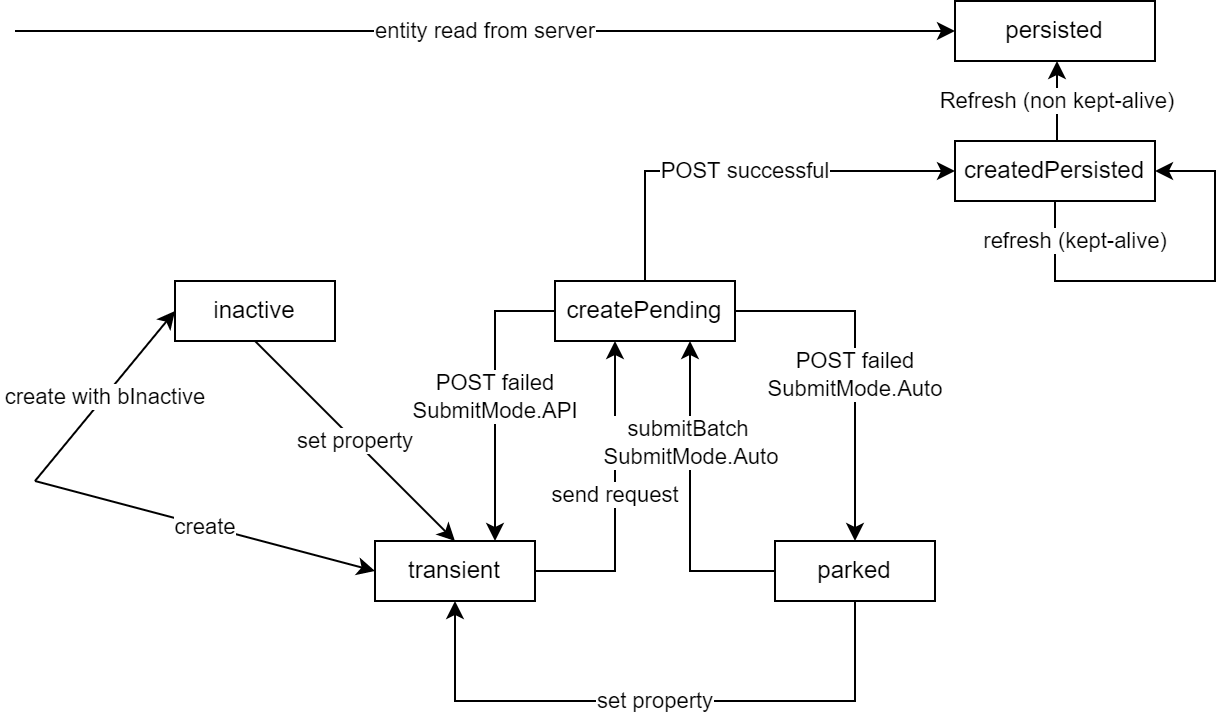
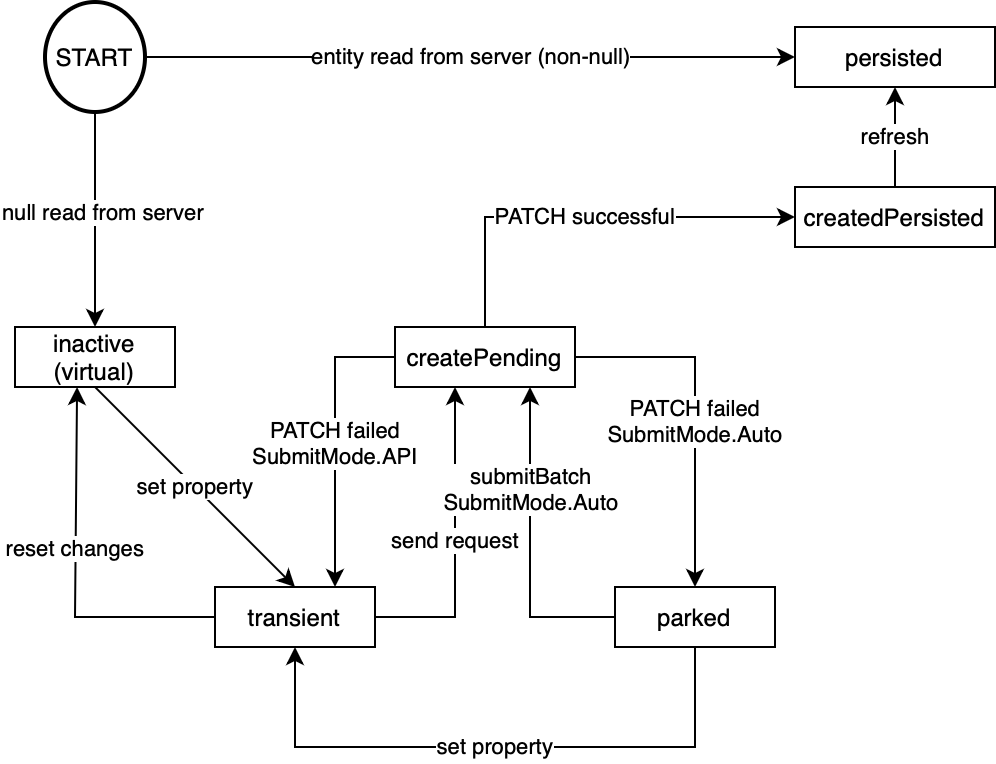
OpenUI5 Documentation Update 08.02.2025

diff --git a/docs/Creating_a_Single_Entity_ba0e73c.md b/docs/Creating_a_Single_Entity_ba0e73c.md
@@ -1,0 +1,89 @@
+<!-- loioba0e73ce02824ceb96b6fd8ecc246f27 -->
+
+| loio |
+| -----|
+| ba0e73ce02824ceb96b6fd8ecc246f27 |
+
+<div id="loio">
+
+view on: [demo kit nightly build](https://sdk.openui5.org/nightly/#/topic/ba0e73ce02824ceb96b6fd8ecc246f27) | [demo kit latest release](https://sdk.openui5.org/topic/ba0e73ce02824ceb96b6fd8ecc246f27)</div>
+
+## Creating a Single Entity
+
+When a single-valued navigation property has a `null` value, you can create a new entity via a so-called "upsert" \(an **up**date that does an in**sert** \). Usually, no API is needed for this as two-way property bindings are sufficient.
+
+> ### Note:  
+> For creating a new entity inside a collection, that is, an entity set or a collection-valued navigation property, see [Creating an Entity in a Collection](Creating_an_Entity_in_a_Collection_c9723f8.md).
+
+***
+
+<a name="loioba0e73ce02824ceb96b6fd8ecc246f27__section_DCR"/>
+
+### A Simple Example
+
+Let's assume we have product entities with a collection of descriptive texts in different languages. Typically, only the text for the current UI language can be maintained by an end user. Suppose `Description` is thus a single-valued navigation property from the product entity to a description entity. Behind the scenes, a collection of descriptions is associated with a single product, but that is of no concern to us here. Also, the description entity may have more properties like the language it represents etc., but we are just interested in the actual `Text` property.
+
+The following is an over-simplified XML view where the outer box represents an object page bound to a single product instance. The interesting part of the UI is an input field with two-way data binding for the description's text. This of course works naturally in case a description is already present: it can then be changed. The same is also possible when no description yet exists, that is, if `Description` has a `null` value. When the end user enters some text into that input field, the V4 OData model creates a PATCH request for`/Products('42')/Description` with header `If-None-Match:*` to tell the back-end service to create a new instance with the given text. That PATCH is accompanied with an appropriate GET to fetch the needed properties from the service after the upsert. This is important in case more properties of the upserted entity are shown on the UI, but also if the sent property itself has been changed, for example, due to auto-correction or -formatting. No side effects need to be maintained for that.
+
+> ### Example:  
+> **XML View for Upsert**
+> 
+> ```
+> 
+> <FlexBox binding="{/Products('42')}">
+>     <Input value="{Description/Text}"/>
+> </FlexBox>
+> ```
+
+***
+
+<a name="loioba0e73ce02824ceb96b6fd8ecc246f27__section_ICR"/>
+
+### Advanced Usage
+
+In addition to two-way data binding, an upsert can also be caused via the [`v4.Context#setProperty`](https://sdk.openui5.org/api/sap.ui.model.odata.v4.Context/methods/setProperty) API. To undo an upsert that has not yet been sent to the backend \(mostly due to [submit mode=API](https://sdk.openui5.org/api/sap.ui.model.odata.v4.SubmitMode)\), use [`v4.Context#resetChanges`](https://sdk.openui5.org/api/sap.ui.model.odata.v4.Context/methods/resetChanges), [`v4.ODataModel#resetChanges`](https://sdk.openui5.org/api/sap.ui.model.odata.v4.ODataModel/methods/resetChanges), or the corresponding method at a [context](https://sdk.openui5.org/api/sap.ui.model.odata.v4.Context/methods/resetChanges), [list](https://sdk.openui5.org/api/sap.ui.model.odata.v4.ODataListBinding/methods/resetChanges), or [property](https://sdk.openui5.org/api/sap.ui.model.odata.v4.ODataPropertyBinding/methods/resetChanges) binding. You cannot use [`v4.Context#delete`](https://sdk.openui5.org/api/sap.ui.model.odata.v4.Context/methods/delete) for this purpose because the context itself should not be deleted, just the \(navigation\) property changes related to it. Setting the `Text` property to `null` again does not undo the upsert, and neither does setting `Description` to `null`.
+
+***
+
+<a name="loioba0e73ce02824ceb96b6fd8ecc246f27__section_CST"/>
+
+### State Diagram
+
+Suppose there is an object binding for the input field as follows. In a similar fashion, there might be an intermediate control bundling a number of input fields related to the same upsert-able entity and again with an object binding to the corresponding single-valued navigation property. In such cases, we can have a closer look at the [`v4.Context`](https://sdk.openui5.org/api/sap.ui.model.odata.v4.Context) related to that [`v4.ODataContextBinding`](https://sdk.openui5.org/api/sap.ui.model.odata.v4.ODataContextBinding) using `this.oView.byId("input").getBindingContext()`. Its state diagram is intentionally close to the one from [Creating an Entity in a Collection](Creating_an_Entity_in_a_Collection_c9723f8.md).
+
+> ### Example:  
+> **XML View for Upsert With Object Binding**
+> 
+> ```
+> 
+> <FlexBox binding="{/Products('42')}">
+>     <Input  binding="{Description}" id="input" value="{Text}"/>
+> </FlexBox>
+> ```
+
+As long as the single-valued navigation property \(`Description` in our example\) has a `null` value, the context is in a kind of inactive state. The input field is ready for input, but no upsert has been created yet. Note that there is no API or client-side annotation to observe that state beyond [`v4.Context#getObject`](https://sdk.openui5.org/api/sap.ui.model.odata.v4.Context/methods/getObject) returning `null`.
+
+Once something has been entered for `Text`, the upsert's PATCH request is created and queued. The context now becomes transient, and this can be observed as usual with [`v4.Context#isTransient`](https://sdk.openui5.org/api/sap.ui.model.odata.v4.Context/methods/isTransient). Depending on the [submit mode](https://sdk.openui5.org/api/sap.ui.model.odata.v4.SubmitMode), the request is either sent automatically or [`v4.ODataModel#submitBatch`](https://sdk.openui5.org/api/sap.ui.model.odata.v4.ODataModel/methods/submitBatch) is needed. A [`patchSent`](https://sdk.openui5.org/api/sap.ui.model.odata.v4.ODataContextBinding/events/patchSent) event is fired as usual, followed by a [`patchCompleted`](https://sdk.openui5.org/api/sap.ui.model.odata.v4.ODataContextBinding/events/patchCompleted). Depending on your binding structure, those events may be fired at a list binding instead. When the PATCH fails, it will be retried as usual, either via the next user input \(or property change, in general\) or via `v4.ODataModel#submitBatch`. Of course, [`bRetry`](https://sdk.openui5.org/api/sap.ui.model.odata.v4.Context/methods/setProperty) has the usual effect in case the API is used.
+
+If and when the entity has been successfully created in the back-end service, the context looks "`createdPersisted`". Use [`v4.Context#created`](https://sdk.openui5.org/api/sap.ui.model.odata.v4.Context/methods/created) to wait for this to happen. This state is preserved by some operations, but after a refresh the context will look just like any other context for a persisted entity loaded from the back-end service.
+
+  
+  
+**State Diagram for Creating an Entity via Upsert**
+
+![](images/loiof359082361f445868c75940f778a8c2e_LowRes.png "State Diagram for Creating an Entity via Upsert")
+
+***
+
+<a name="loioba0e73ce02824ceb96b6fd8ecc246f27__section_x5l_k53_h2c"/>
+
+### Restrictions
+
+An upsert cannot happen in a collection that does not send own requests. For example, the list binding of an items table for `Products` with binding context `/Category('23')` needs to use [`$$ownRequest`](https://sdk.openui5.org/api/sap.ui.model.odata.v4.ODataModel/methods/bindList) in order to upsert descriptions per product.
+
+Upserts cannot be nested, that is, one cannot create an entity for `Description` and for `Description/Detail` in the same upsert. There is no deep upsert, that is, there cannot be a table of `Description/Detail`s filled within the upsert for `Description`. In both cases, `Description` needs to be created first and saved in the back end before the next step.
+
+The binding-specific parameter [`$$noPatch`](https://sdk.openui5.org/api/sap.ui.model.odata.v4.ODataModel/methods/bindProperty) is unsupported for upserts. The mixing of update group IDs related to the same upsert is not supported; this also holds for null vs. non-null in the case of the [`v4.Context#setProperty`](https://sdk.openui5.org/api/sap.ui.model.odata.v4.Context/methods/setProperty) API. As usual, side effects need to be requested with the same \(update\) group ID as the one that caused the upsert; see `sGroupId` of [`v4.Context#requestSideEffects`](https://sdk.openui5.org/api/sap.ui.model.odata.v4.Context/methods/requestSideEffects).
+
+When the upsert is caused via API at a parent context of the context corresponding to the single-value navigation property, the actual "upsert context" is bypassed and does not become created or transient.
+

diff --git a/docs/Data_Aggregation_and_Recursive_Hierarchy_7d91431.md b/docs/Data_Aggregation_and_Recursive_Hierarchy_7d91431.md
@@ -222,9 +222,9 @@ Note how the sibling\(!\) order is specified via an [`orderby`](https://docs.oas
 }">
 ```
 
-If the list binding uses `$count: true`, for example, to show this count as part of a title, an extra request is sent once \(not each time when scrolling, but of course again after a \(side-effects\) refresh\). It includes any custom query options as well as filter and search criteria: `GET /sap/opu/odata4/IWBEP/TEA/default/IWBEP/TEA_BUSI/0001/EMPLOYEES/$count?sap-client=123&$filter=AGE ge 0 and (Is_Manager)&$search=covfefe`
+If the list binding uses `$count: true`, for example, to show this count as part of a title, an extra request is sent once \(not each time when scrolling, but of course again after a \(side-effects\) refresh\). It includes any custom query options as well as filter and search criteria: `GET /sap/opu/odata4/IWBEP/TEA/default/IWBEP/TEA_BUSI/0001/EMPLOYEES/$count?sap-client=123&$filter=AGE ge 0 and (Is_Manager)&$search=developer`
 
-With filter and search, the main request looks a bit more complicated and includes an [`ancestors`](https://docs.oasis-open.org/odata/odata-data-aggregation-ext/v4.0/cs03/odata-data-aggregation-ext-v4.0-cs03.html#Transformationsancestorsanddescendants) transformation beforehand: <code>GET /sap/opu/odata4/IWBEP/TEA/default/IWBEP/TEA_BUSI/0001/EMPLOYEES?<b>$apply=ancestors($root/EMPLOYEES,OrgChart,ID,filter(AGE ge 0 and (Is_Manager))/search(covfefe),keep start)</b>/orderby(AGE)/com.sap.vocabularies.Hierarchy.v1.TopLevels(HierarchyNodes=$root/EMPLOYEES,HierarchyQualifier='OrgChart',NodeProperty='ID',Levels=2) &amp;$select=AGE,DescendantCount,DistanceFromRoot,DrillState,ID,MANAGER_ID,Name&amp;$count=true&amp;$skip=0&amp;$top=115</code>
+With filter and search, the main request looks a bit more complicated and includes an [`ancestors`](https://docs.oasis-open.org/odata/odata-data-aggregation-ext/v4.0/cs03/odata-data-aggregation-ext-v4.0-cs03.html#Transformationsancestorsanddescendants) transformation beforehand: <code>GET /sap/opu/odata4/IWBEP/TEA/default/IWBEP/TEA_BUSI/0001/EMPLOYEES?<b>$apply=ancestors($root/EMPLOYEES,OrgChart,ID,filter(AGE ge 0 and (Is_Manager))/search(developer),keep start)</b>/orderby(AGE)/com.sap.vocabularies.Hierarchy.v1.TopLevels(HierarchyNodes=$root/EMPLOYEES,HierarchyQualifier='OrgChart',NodeProperty='ID',Levels=2) &amp;$select=AGE,DescendantCount,DistanceFromRoot,DrillState,ID,MANAGER_ID,Name&amp;$count=true&amp;$skip=0&amp;$top=115</code>
 
 When a node is expanded individually, a request for its children is sent using a [`descendants`](https://docs.oasis-open.org/odata/odata-data-aggregation-ext/v4.0/cs03/odata-data-aggregation-ext-v4.0-cs03.html#Transformationsancestorsanddescendants) transformation, for example: <code>GET /sap/opu/odata4/IWBEP/TEA/default/IWBEP/TEA_BUSI/0001/EMPLOYEES?<b>$apply=descendants($root/EMPLOYEES,OrgChart,ID,filter(ID eq '0'),1)</b>/orderby(AGE)&amp;$select=AGE,DrillState,ID,MANAGER_ID,Name&amp;$count=true&amp;$skip=0&amp;$top=6</code>
 

diff --git a/docs/Date_Format_91f2eba.md b/docs/Date_Format_91f2eba.md
@@ -36,6 +36,8 @@ var oTimeFormat = sap.ui.core.format.DateFormat.getTimeInstance();
 
 ***
 
+<a name="loio91f2eba36f4d1014b6dd926db0e91070__section_params"/>
+
 ### Parameters
 
 There are several parameters which affect the final result of formatting and parsing a date. If no parameter is set, the default setting defined in the current locale is used to format and parse the date.
@@ -472,6 +474,144 @@ var oDateTimeWithTimezoneFormat = sap.ui.core.format.DateFormat.getDateTimeWithT
 
 oDateTimeWithTimezoneFormat.format(UI5Date.getInstance(), "America/New_York") // Returns "10.02.2022, 10:01:14 America/New_York"
 ```
+
+***
+
+#### Mapping of Deprecated Time Zones
+
+The IANA standard classifies certain time zone IDs as deprecated and defines substitutes for them. With [CLDR version 46](https://cldr.unicode.org/downloads/cldr-46#supplemental-data-changes), these time zones are removed, and locale-specific time zone name translations are no longer available for them. To remain backward-compatible, OpenUI5 maps deprecated IANA time zone IDs to the related preferred IANA time zone IDs when formatting or parsing time zones. For example, the translated text in the English locale `Americas, Nipigon` is now formatted to `Americas, Toronto`. In case of parsing, the translated texts cannot be parsed anymore as they are no longer available, e.g. for the English locale `Americas, Nipigon` could not be parsed. If a time zone ID is entered for parsing, the mapped equivalent would be parsed, e.g. if `America/Nipigon` is entered for parsing, it would now be parsed as `America/Toronto`.
+
+Below you can find a list of all deprecated time zone IDs and their substitutes.
+
+**Time Zone Mapping**
+
+
+<table>
+<tr>
+<th valign="top">
+
+Deprecated time zone
+
+</th>
+<th valign="top">
+
+Preferred time zone
+
+</th>
+</tr>
+<tr>
+<td valign="top">
+
+`America/Nipigon`
+
+`America/Thunder_Bay`
+
+</td>
+<td valign="top">
+
+`America/Toronto` 
+
+</td>
+</tr>
+<tr>
+<td valign="top">
+
+`America/Pangnirtung` 
+
+</td>
+<td valign="top">
+
+`America/Iqaluit` 
+
+</td>
+</tr>
+<tr>
+<td valign="top">
+
+`America/Rainy_River` 
+
+</td>
+<td valign="top">
+
+`America/Winnipeg` 
+
+</td>
+</tr>
+<tr>
+<td valign="top">
+
+`America/Santa_Isabel` 
+
+</td>
+<td valign="top">
+
+`America/Tijuana` 
+
+</td>
+</tr>
+<tr>
+<td valign="top">
+
+`America/Yellowknife` 
+
+</td>
+<td valign="top">
+
+`America/Edmonton` 
+
+</td>
+</tr>
+<tr>
+<td valign="top">
+
+`Europe/Uzhgorod`
+
+`Europe/Zaporozhye`
+
+</td>
+<td valign="top">
+
+`Europe/Kiev` 
+
+</td>
+</tr>
+<tr>
+<td valign="top">
+
+`Asia/Choibalsan` 
+
+</td>
+<td valign="top">
+
+`Asia/Ulaanbaatar` 
+
+</td>
+</tr>
+<tr>
+<td valign="top">
+
+`Australia/Currie` 
+
+</td>
+<td valign="top">
+
+`Australia/Hobart` 
+
+</td>
+</tr>
+<tr>
+<td valign="top">
+
+`Pacific/Johnston` 
+
+</td>
+<td valign="top">
+
+`Pacific/Honolulu` 
+
+</td>
+</tr>
+</table>
 
 ***
 

diff --git a/docs/OData_V4_Model_5de13cf.md b/docs/OData_V4_Model_5de13cf.md
@@ -78,10 +78,13 @@ Certain methods derived from OpenUI5 model and binding superclasses are not supp
 -   **[Changes Compared to OData V2 Model](Changes_Compared_to_OData_V2_Model_abd4d7c.md "This section outlines the main differences between the OData V2 and OData V4
 		models.")**  
 This section outlines the main differences between the OData V2 and OData V4 models.
--   **[Creating an Entity](Creating_an_Entity_c9723f8.md "The sap.ui.model.odata.v4.ODataListBinding#create method creates a
-		new entity. Users can interact with a newly created entity even before it has been sent to
-		the server.")**  
-The `sap.ui.model.odata.v4.ODataListBinding#create` method creates a new entity. Users can interact with a newly created entity even before it has been sent to the server.
+-   **[Creating an Entity in a Collection](Creating_an_Entity_in_a_Collection_c9723f8.md "The sap.ui.model.odata.v4.ODataListBinding#create method creates a new entity inside a collection. Users can interact
+		with a newly created entity even before it has been sent to the server.")**  
+The `sap.ui.model.odata.v4.ODataListBinding#create` method creates a new entity inside a collection. Users can interact with a newly created entity even before it has been sent to the server.
+-   **[Creating a Single Entity](Creating_a_Single_Entity_ba0e73c.md "When a single-valued navigation property has a null value, you can create a new entity via a so-called &quot;upsert&quot; (an
+			update that does an insert ). Usually, no API is needed for this as two-way property bindings
+		are sufficient.")**  
+When a single-valued navigation property has a `null` value, you can create a new entity via a so-called "upsert" \(an **up**date that does an in**sert** \). Usually, no API is needed for this as two-way property bindings are sufficient.
 -   **[Draft Handling with the OData V4 Model](Draft_Handling_with_the_OData_V4_Model_40986e6.md "A draft is an interim version of a business entity that has not yet been explicitly saved. Drafts are saved automatically in the
 		background whenever users add or change information within a business entity.")**  
 A draft is an interim version of a business entity that has not yet been explicitly saved. Drafts are saved automatically in the background whenever users add or change information within a business entity.

diff --git a/docs/Batch_Control_74142a3.md b/docs/Batch_Control_74142a3.md
@@ -150,7 +150,7 @@ onSaveSalesOrder : function (oEvent) {
 
 The OData V4 model automatically repeats failed property changes \(PATCH requests\). If the update group ID has [SubmitMode.API](https://sdk.openui5.org/api/sap.ui.model.odata.v4.SubmitMode.API) and the property change of the entity on the server fails, the change is repeated with the next call of [ODataModel.submitBatch](https://sdk.openui5.org/api/sap.ui.model.odata.v4.ODataModel/methods/submitBatch) for this group. If the update group ID has [SubmitMode.Auto](https://sdk.openui5.org/api/sap.ui.model.odata.v4.SubmitMode.Auto) or [SubmitMode.Direct](https://sdk.openui5.org/api/sap.ui.model.odata.v4.SubmitMode.Direct) and the change fails, the change is repeated automatically with the next update for the entity. Since 1.67.0, [ODataModel.submitBatch](https://sdk.openui5.org/api/sap.ui.model.odata.v4.ODataModel/methods/submitBatch) can also be used for update group IDs with [SubmitMode.Auto](https://sdk.openui5.org/api/sap.ui.model.odata.v4.SubmitMode.Auto) in order to repeat, independently of an update.
 
-The same holds true for [Creating an Entity](Creating_an_Entity_c9723f8.md) and [Deleting an Entity](Deleting_an_Entity_2613ebc.md).
+The same holds true for [Creating an Entity in a Collection](Creating_an_Entity_in_a_Collection_c9723f8.md) and [Deleting an Entity](Deleting_an_Entity_2613ebc.md).
 
 > ### Note:  
 > If updates for an entity fail and thus prevent its deletion, they should be reset via [`Context#resetChanges`](https://sdk.openui5.org/api/sap.ui.model.odata.v4.Context/methods/resetChanges)

diff --git a/docs/What_s_New_in_OpenUI5_1_98_d9f16f2.md b/docs/What_s_New_in_OpenUI5_1_98_d9f16f2.md
@@ -136,7 +136,7 @@ The new version of the OpenUI5 OData V4 model introduces the following features:
 
 -   An application can now create inactive contexts in a list binding using the `bInactive` parameter of `sap.ui.model.odata.v4.ODataListBinding#create`, provided the update group of the binding is an `Auto` group. There is no POST request for an inactive context. The context will become active as soon as any of its properties is changed. Once this happens, the `createActivate` event is raised, enabling the application to create a new inactive context.
 
-    Inactive contexts do not influence `sap.ui.model.odata.v4.ODataListBinding#getCount`. They are neither pending changes nor are they reset by `sap.ui.model.odata.v4.ODataListBinding#resetChanges` or `sap.ui.model.odata.v4.ODataModel#resetChanges`. For more information, see [Creating an Entity](Creating_an_Entity_c9723f8.md).
+    Inactive contexts do not influence `sap.ui.model.odata.v4.ODataListBinding#getCount`. They are neither pending changes nor are they reset by `sap.ui.model.odata.v4.ODataListBinding#resetChanges` or `sap.ui.model.odata.v4.ODataModel#resetChanges`. For more information, see [Creating an Entity in a Collection](Creating_an_Entity_in_a_Collection_c9723f8.md).
 
 -   The `sap.ui.model.odata.v4.ODataListBinding#getAllCurrentContexts` method returns all current contexts without raising a request.
 

diff --git a/docs/Binding_Collection_Inline_Count_77d2310.md b/docs/Binding_Collection_Inline_Count_77d2310.md
@@ -10,7 +10,7 @@ view on: [demo kit nightly build](https://sdk.openui5.org/nightly/#/topic/77d231
 
 ## Binding Collection Inline Count
 
-The OData V4 model allows for binding the inline count of the entity collection read by an `ODataListBinding` which has the parameter `$count` set to `true`. Inactive contexts do not contribute to this count; for more information see [Creating an Entity](Creating_an_Entity_c9723f8.md). In the example below, the table title is bound to `"$count"`, thus representing the number of sales order entities in the collection bound to the table.
+The OData V4 model allows for binding the inline count of the entity collection read by an `ODataListBinding` which has the parameter `$count` set to `true`. Inactive contexts do not contribute to this count; for more information see [Creating an Entity in a Collection](Creating_an_Entity_in_a_Collection_c9723f8.md). In the example below, the table title is bound to `"$count"`, thus representing the number of sales order entities in the collection bound to the table.
 
 **Example: Table with title bound to `$count`**
 

diff --git a/docs/Creating_an_Entity_in_a_Collection_c9723f8.md b/docs/Creating_an_Entity_in_a_Collection_c9723f8.md
@@ -8,9 +8,12 @@
 
 view on: [demo kit nightly build](https://sdk.openui5.org/nightly/#/topic/c9723f8265f644af91c0ed941e114d46) | [demo kit latest release](https://sdk.openui5.org/topic/c9723f8265f644af91c0ed941e114d46)</div>
 
-## Creating an Entity
+## Creating an Entity in a Collection
 
-The `sap.ui.model.odata.v4.ODataListBinding#create` method creates a new entity. Users can interact with a newly created entity even before it has been sent to the server.
+The `sap.ui.model.odata.v4.ODataListBinding#create` method creates a new entity inside a collection. Users can interact with a newly created entity even before it has been sent to the server.
+
+> ### Note:  
+> For creating a new single entity which is not part of a collection, see [Creating a Single Entity](Creating_a_Single_Entity_ba0e73c.md).
 
 > ### Note:  
 > The `sap.ui.model.odata.v4.ODataListBinding#create` method is also used for creating records in controller code. For more information, see [Accessing Data in Controller Code](Accessing_Data_in_Controller_Code_17b30ac.md).

diff --git a/docs/0index.md b/docs/0index.md
@@ -449,7 +449,8 @@ OpenUI5 Version for the OpenUI5 Demo Kit
                     -   [Performance Aspects](Performance_Aspects_5a0d286.md)
                     -   [Unsupported Superclass Methods and Events](Unsupported_Superclass_Methods_and_Events_1232241.md)
                     -   [Changes Compared to OData V2 Model](Changes_Compared_to_OData_V2_Model_abd4d7c.md)
-                    -   [Creating an Entity](Creating_an_Entity_c9723f8.md)
+                    -   [Creating an Entity in a Collection](Creating_an_Entity_in_a_Collection_c9723f8.md)
+                    -   [Creating a Single Entity](Creating_a_Single_Entity_ba0e73c.md)
                     -   [Draft Handling with the OData V4 Model](Draft_Handling_with_the_OData_V4_Model_40986e6.md)
                     -   [Deleting an Entity](Deleting_an_Entity_2613ebc.md)
                     -   [Consuming OData V2 Services with the OData V4 Model](Consuming_OData_V2_Services_with_the_OData_V4_Model_365bdbd.md)

diff --git a/docs/index.md b/docs/index.md
@@ -449,7 +449,8 @@ OpenUI5 Version for the OpenUI5 Demo Kit
                     -   [Performance Aspects](Performance_Aspects_5a0d286.md)
                     -   [Unsupported Superclass Methods and Events](Unsupported_Superclass_Methods_and_Events_1232241.md)
                     -   [Changes Compared to OData V2 Model](Changes_Compared_to_OData_V2_Model_abd4d7c.md)
-                    -   [Creating an Entity](Creating_an_Entity_c9723f8.md)
+                    -   [Creating an Entity in a Collection](Creating_an_Entity_in_a_Collection_c9723f8.md)
+                    -   [Creating a Single Entity](Creating_a_Single_Entity_ba0e73c.md)
                     -   [Draft Handling with the OData V4 Model](Draft_Handling_with_the_OData_V4_Model_40986e6.md)
                     -   [Deleting an Entity](Deleting_an_Entity_2613ebc.md)
                     -   [Consuming OData V2 Services with the OData V4 Model](Consuming_OData_V2_Services_with_the_OData_V4_Model_365bdbd.md)

diff --git a/docs/sidebar.md b/docs/sidebar.md
@@ -443,7 +443,8 @@
                     -   [Performance Aspects](Performance_Aspects_5a0d286.md)
                     -   [Unsupported Superclass Methods and Events](Unsupported_Superclass_Methods_and_Events_1232241.md)
                     -   [Changes Compared to OData V2 Model](Changes_Compared_to_OData_V2_Model_abd4d7c.md)
-                    -   [Creating an Entity](Creating_an_Entity_c9723f8.md)
+                    -   [Creating an Entity in a Collection](Creating_an_Entity_in_a_Collection_c9723f8.md)
+                    -   [Creating a Single Entity](Creating_a_Single_Entity_ba0e73c.md)
                     -   [Draft Handling with the OData V4 Model](Draft_Handling_with_the_OData_V4_Model_40986e6.md)
                     -   [Deleting an Entity](Deleting_an_Entity_2613ebc.md)
                     -   [Consuming OData V2 Services with the OData V4 Model](Consuming_OData_V2_Services_with_the_OData_V4_Model_365bdbd.md)

diff --git a/docs/What_s_New_in_OpenUI5_1_102_f038c99.md b/docs/What_s_New_in_OpenUI5_1_102_f038c99.md
@@ -384,7 +384,7 @@ Feature
 
 The new version of the OpenUI5 OData V4 model introduces the following features:
 
--   The creation of inactive rows introduced with OpenUI5 1.97 is no longer experimental. For more information, see [Creating an Entity](Creating_an_Entity_c9723f8.md)and the [API Reference](https://sdk.openui5.org/api/sap.ui.model.odata.v4.ODataListBinding%23methods/create).
+-   The creation of inactive rows introduced with OpenUI5 1.97 is no longer experimental. For more information, see [Creating an Entity in a Collection](Creating_an_Entity_in_a_Collection_c9723f8.md)and the [API Reference](https://sdk.openui5.org/api/sap.ui.model.odata.v4.ODataListBinding%23methods/create).
 -   If metadata is already available, key predicates of message targets received from the back end are now normalized to match the key predicates calculated on the client.
 
 <sub>Changed•Feature•Info Only•1.102</sub>
